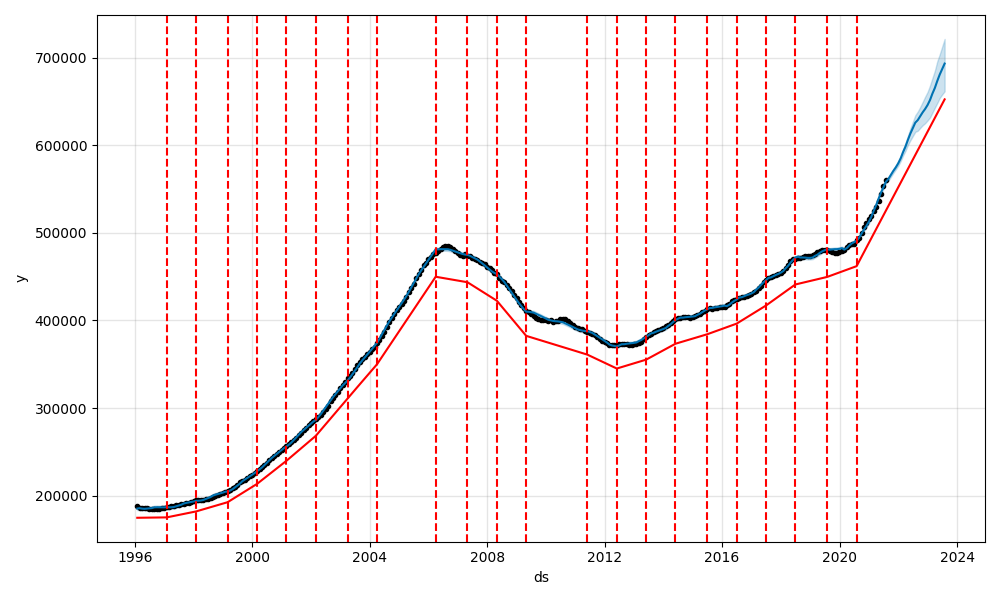
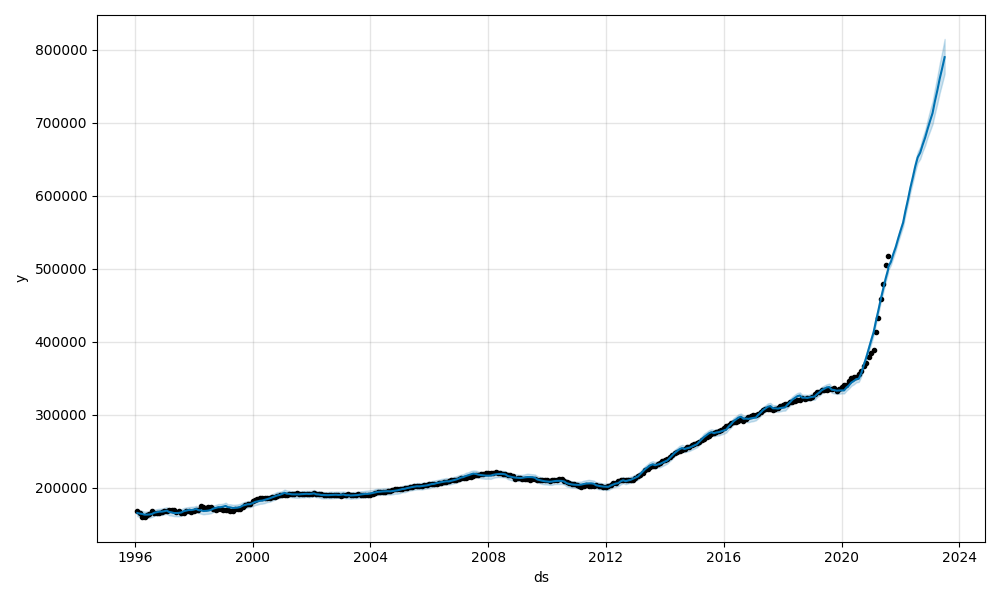
override changepoints, added hyperparameter tuning, and cross validation visualizations

diff --git a/forecast.py b/forecast.py
@@ -1,8 +1,11 @@
+from numpy.core.numeric import cross
 import pandas as pd
 import numpy as np
-from fbprophet import Prophet
+import itertools
+from pandas.core.reshape.tile import cut
 from prophet import Prophet
-from prophet.plot import add_changepoints_to_plot
+from prophet.plot import add_changepoints_to_plot, plot_cross_validation_metric
+from prophet.diagnostics import cross_validation, performance_metrics
 import math
 import datetime
 import time
@@ -78,32 +81,73 @@ austin_data = austin_data.T # transpose df
 austin_data = austin_data.reset_index().rename(columns = {'index': 'ds', 0: 'y'})
 austin_data['ds'] = pd.to_datetime(austin_data['ds'])
 print(austin_data.head())  
-# TODO: determine holidays? 2008? Covid?
-# need df with columns holiday, Month, lower_window, upper_window (not sure what these last two mean)
 
 # override trend changepoint identification with cusum-based method
-# TODO: determine how to implement this into the model
-# input_time_series_df['mov_avg_y'] = input_time_series_df['y'].rolling(window).mean() # TODO: add this if I want to smooth the data?
 output_df = pd.DataFrame(columns = ['Day', 'Confidence Level'])
 output_df = bootstrap_data(austin_data, 'y', 'ds', bootstrap_samples, output_df, max_trend_length, 0)
-print(output_df)   
-# exit()
+changepoints_list = output_df['Day'].sort_values().tolist()
+print(changepoints_list)
+
+# hyperparameter tuning
+# changepoint_prior_scale: flexibility of trend and how much the trend changes at the changepoints - larger = potential to overfit
+# seasonality_prior_scale: flexibility of seasonality - smaller means there is a very small seasonal effect
+# seasonality_mode: whether seasonality is additive or multiplicative
+param_grid = {
+    'changepoints': [changepoints_list],
+    'changepoint_prior_scale': [0.001, 0.01, 0.1, 0.5],
+    'seasonality_prior_scale': [0.01, 0.1, 1.0, 10.0],
+    'seasonality_mode': ['additive', 'multiplicative'],
+}
+# generate combinations of parameters
+all_params = [dict(zip(param_grid.keys(), v)) for v in itertools.product(*param_grid.values())]
+rmses = [] # store RMSEs for each param combo here
+cutoffs = pd.date_range(start='2002-01-01', end='2019-01-01', freq='12MS') # cutoffs for cv
+# use cross validation to evaluate each combination of parameters
+for params in all_params:
+    m = Prophet(**params)
+    m.add_seasonality(name = 'yearly', period = 365, fourier_order = 12,)
+    m.fit(austin_data)
+    df_cv = cross_validation(m, horizon = '730 days', cutoffs = cutoffs)
+    df_p = performance_metrics(df_cv)
+    rmses.append(df_p['rmse'].values[0])
+# find the best parameters
+tuning_results = pd.DataFrame(all_params)
+tuning_results['rmse'] = rmses
+tuning_results.drop(columns=['changepoints'], inplace = True)
+tuning_results.to_csv('output/tuning_results.csv', index = False)
+best_params = all_params[np.argmin(rmses)]
+print('BEST PARAMETERS:', best_params)
+
 # Generate Prophet model
-    # m = Prophet(holidays = holiday_df, seasonality_mode = 'multiplicative')
-m = Prophet(changepoint_range = 1.0,  # use all of the data 
-            changepoint_prior_scale = 0.05, # decrease flexibility of the model to reduce overfitting (default is 0.05)
-            seasonality_mode = 'multiplicative')
+# m = Prophet(changepoints = changepoints_list, # override changepoint locations
+#             changepoint_prior_scale = 0.03,
+#             seasonality_mode = 'multiplicative')
+m = Prophet(**best_params)
 m.add_seasonality(name = 'yearly', period = 365, fourier_order = 12,)
 m.fit(austin_data)
 
 # Forecast
-future = m.make_future_dataframe(periods = 24, freq = 'M')
+future = m.make_future_dataframe(periods = 24, freq = 'MS')
 forecast = m.predict(future)
+
+# Cross Validation
+# this cuts the data off every year (1/2 the horizon) starting 6 years in (3 times the horizon) 
+# and trains the model each time with the cutoff data
+cutoffs = pd.date_range(start='2002-01-01', end='2019-01-01', freq='12MS')
+df_cv = cross_validation(m, horizon = '730 days', cutoffs = cutoffs)
+# get useful stats about the prediction performance -> MSE, RMSE, MAE, MAPE, etc.
+df_p = performance_metrics(df_cv)
+df_cv.to_csv('output/df_cv.csv', index = False)
+df_p.to_csv('output/df_p.csv', index = False)
+# visualize CV performance metrics - dots show the abs % error for each prediction in df_cv and the blue line shows the MAPE
+# where the mean is taken over a rolling window of the dots
+fig_cv = plot_cross_validation_metric(df_cv, metric = 'mape')
+fig_cv.savefig('figures/forecast_cv_mape.png', index = False)
 
 # Plots
 pd.plotting.register_matplotlib_converters()
 fig1 = m.plot(forecast)
-a = add_changepoints_to_plot(fig1.gca(), m, forecast)
+# a = add_changepoints_to_plot(fig1.gca(), m, forecast)
 fig1.savefig('figures/forecast.png', index = False)
 fig2 = m.plot_components(forecast)
 fig2.savefig('figures/forecast_components.png', index = False)
